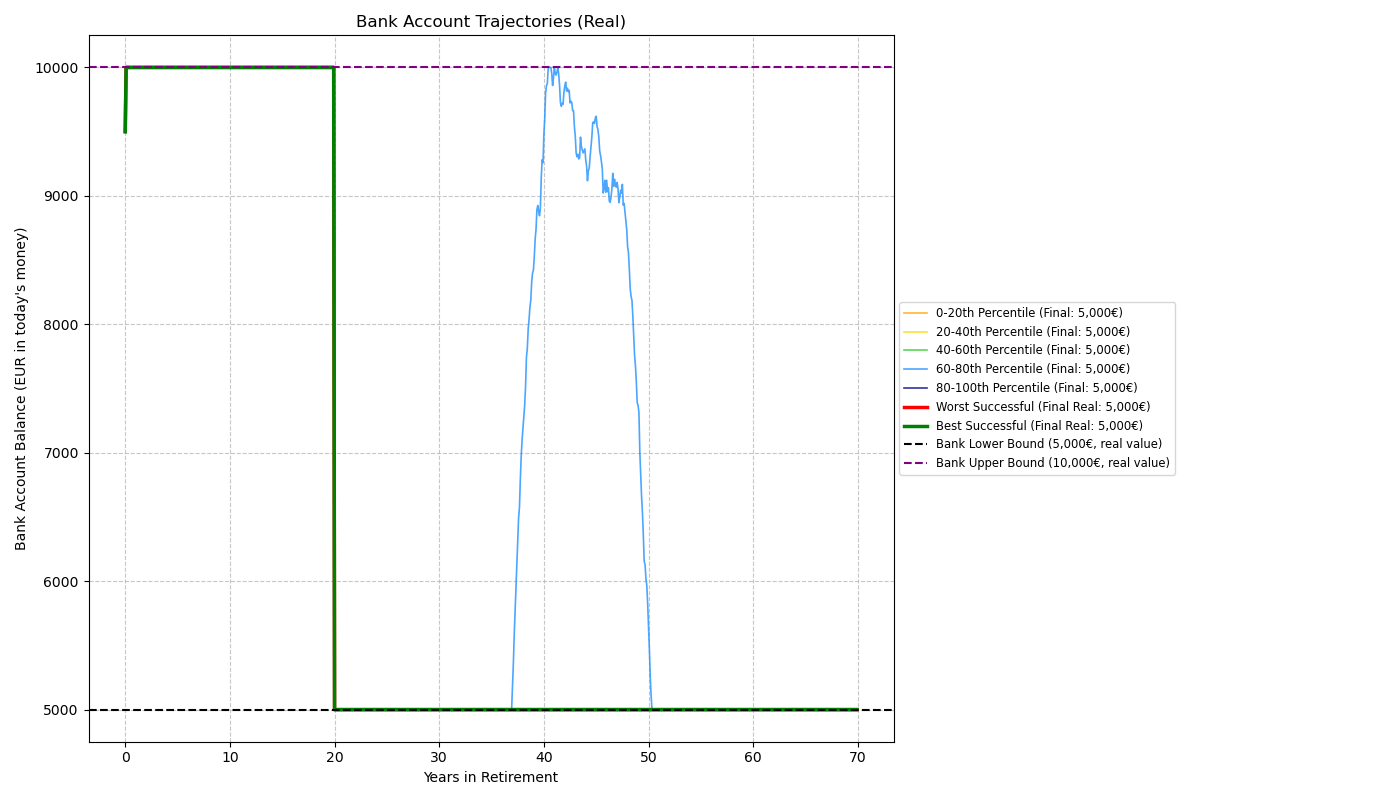
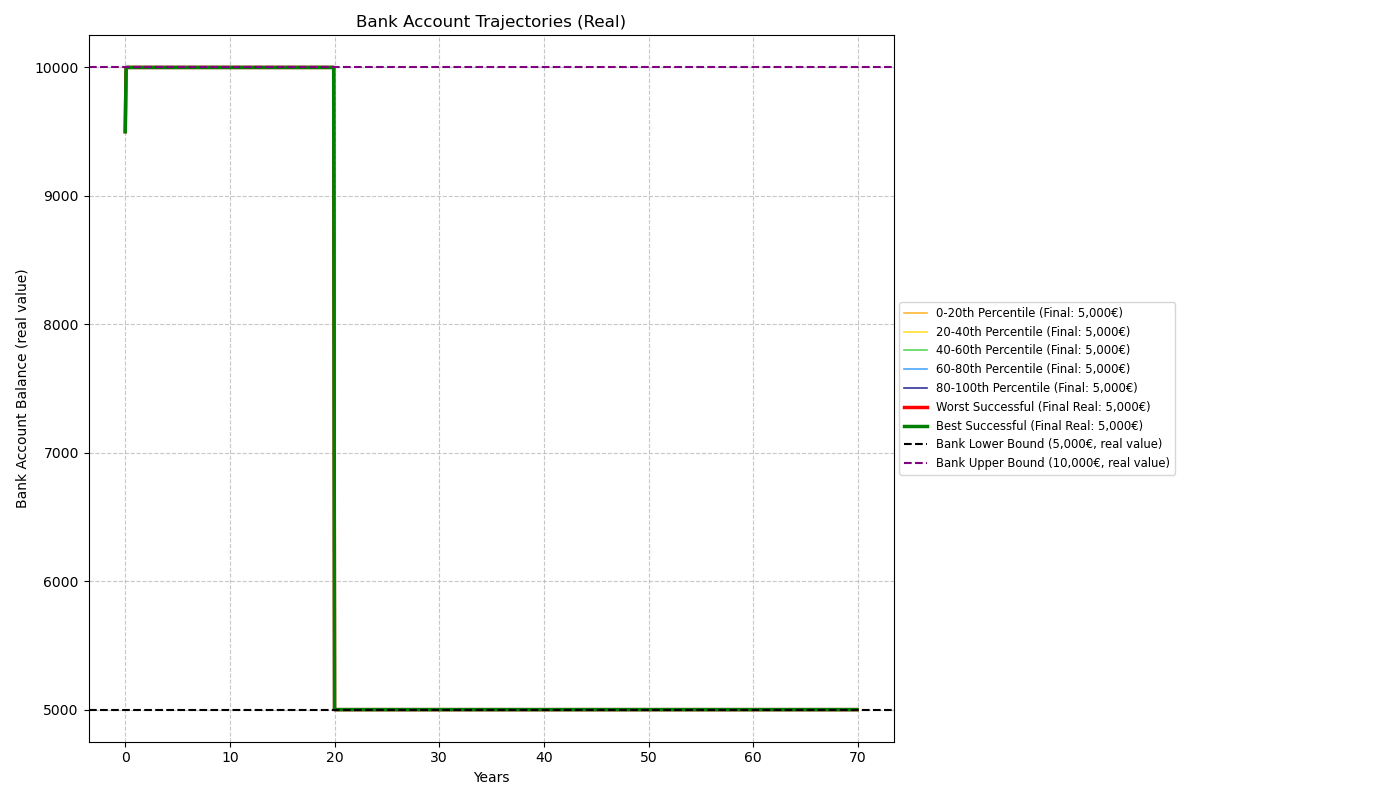
Docs.

diff --git a/firestarter/reporting/graph_report.py b/firestarter/reporting/graph_report.py
@@ -23,7 +23,7 @@ def plot_retirement_duration_distribution(
         bins=np.arange(0, total_retirement_years + 1, 1.0).tolist(),
         edgecolor="black",
     )
-    plt.title("Distribution of Retirement Duration for Failed Simulations")
+    plt.title("Distribution of duration for Failed Simulations")
     plt.xlabel("Years Lasted")
     plt.ylabel("Number of Simulations")
     plt.grid(axis="y", alpha=0.75)
@@ -221,13 +221,9 @@ def plot_wealth_evolution_samples(results_df: pd.DataFrame, real: bool, filename
             alpha=1.0,
         )
 
-    plt.title(
-        f"Sampled Wealth Evolution Over Retirement ({'Real' if real else 'Nominal'} Terms)"
-    )
-    plt.xlabel("Years in Retirement")
-    plt.ylabel(
-        f"Total Wealth (EUR{" in today's money" if real else ' at time of value'})"
-    )
+    plt.title(f"Sampled Wealth Evolution({'Real' if real else 'Nominal'} Terms)")
+    plt.xlabel("Years")
+    plt.ylabel(f"Total Wealth ({'real value' if real else 'nominal value'})")
     plt.grid(True, linestyle="--", alpha=0.7)
     plt.yscale("log")
     plt.legend(loc="center left", bbox_to_anchor=(1, 0.5), fontsize="small")
@@ -272,8 +268,8 @@ def plot_failed_wealth_evolution_samples(
     plt.title(
         f"Sampled Wealth Evolution for Failed Simulations ({'Real' if real else 'Nominal'} Terms)"
     )
-    plt.xlabel("Years in Retirement")
-    plt.ylabel(f"Total Wealth ({'Real' if real else 'Nominal'} Terms)")
+    plt.xlabel("Years")
+    plt.ylabel(f"Total Wealth ({'real value' if real else 'nominal value'})")
     plt.grid(True, linestyle="--", alpha=0.7)
     plt.yscale("log")
     plt.tight_layout()
@@ -378,8 +374,8 @@ def plot_bank_account_trajectories(
     )
 
     plt.title(f"Bank Account Trajectories ({'Real' if real else 'Nominal'})")
-    plt.xlabel("Years in Retirement")
-    plt.ylabel(f"Bank Account Balance (EUR{" in today's money" if real else ''})")
+    plt.xlabel("Years")
+    plt.ylabel(f"Bank Account Balance ({'real value' if real else 'nominal value'})")
     plt.grid(True, linestyle="--", alpha=0.7)
     plt.legend(loc="center left", bbox_to_anchor=(1, 0.5), fontsize="small")
     plt.tight_layout(rect=(0, 0, 0.85, 1))

diff --git a/docs/usage.md b/docs/usage.md
@@ -44,7 +44,8 @@ or a PowerShell script (Windows). Anyhow these two scripts are in the project ro
 
 ### Option 1: Bash script (Linux/macOS)
 
-1. Create a file named `firestarter.sh` with the following content:
+1. Create a file named `firestarter.sh` with the following content, or use the one
+   provided in the root of the project, i.e. [firestarter.sh](../firestarter.sh):
 
    ```sh
    #!/bin/bash
@@ -76,7 +77,8 @@ or a PowerShell script (Windows). Anyhow these two scripts are in the project ro
 
 ### Option 2: PowerShell script (Windows)
 
-1. Create a file named `firestarter.ps1` with following content:
+1. Create a file named `firestarter.ps1` with following content, or use the one
+   provided in the root of the project, i.e. [firestarter.ps1](../firestarter.ps1):
 
    ```powershell
    # Runs the firestarter simulation.

diff --git a/README.md b/README.md
@@ -63,13 +63,17 @@ and market shocks over time to estimate the probability of financial success.
 2. **[Run the simulation](/docs/usage.md)**  
    From the project root, use the provided shell script or Python command:
 
-   ```sh
+   ```shell
    ./firestarter.sh configs/config.toml
    ```
 
    or
 
-   ```sh
+   ```shell
+   export OMP_NUM_THREADS=1
+   export OPENBLAS_NUM_THREADS=1
+   export MKL_NUM_THREADS=1
+   export NUMEXPR_NUM_THREADS=1
    python -m firestarter.main configs/config.toml
    ```
 
@@ -173,6 +177,7 @@ pip install -r requirements.txt
 If you have tests in the `tests/` directory, run them with:
 
 ```sh
+cd fire
 pytest
 ```
 
